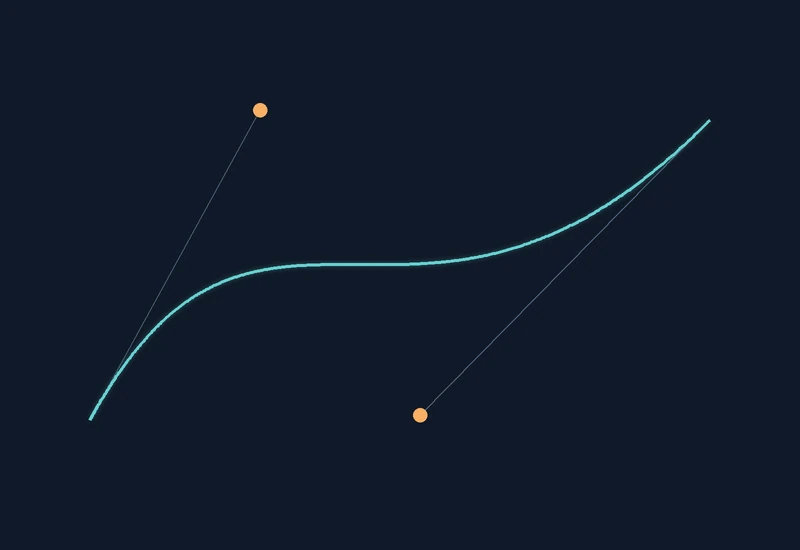
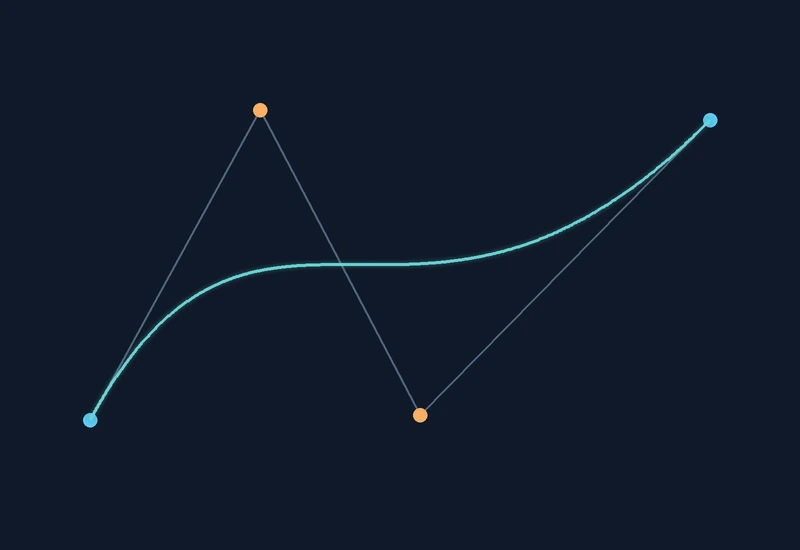
s

diff --git a/content/chapters/10-gorbek/index.md b/content/chapters/10-gorbek/index.md
@@ -6,9 +6,17 @@ Ebben a fejezetben a paraméteres leírás alapgondolatára és a felhasználás
 
 ## Paraméteres görbék {#parameteres-gorbek}
 
-A síkbeli paraméteres görbe egy pontját két függvény határozza meg: **`x(t)` és `y(t)`**. A `t` értékét egy megadott tartományon változtatjuk, minden értékhez kiszámítunk egy pontot, majd az egymást követő pontokat összekötjük. Ha elég sok pontot számítunk, a vonal folyamatos görbének látszik.
+A síkbeli paraméteres görbe egy pontját két koordinátafüggvény határozza meg: `x(t)` és `y(t)`. A `t` egy változó, amelynek értékét egy megadott intervallumon végigvezetjük. Például egy kör esetében az `x(t) = R cos(t)` és `y(t) = R sin(t)` képleteket használhatjuk, ahol `t ∈ [0, 2π]` és `R` a kör sugara. Minden paraméterértékhez kiszámítunk egy pontot, majd az egymást követő pontokat összekötjük. Ha elég sok pontot számítunk, a vonal folyamatos görbének látszik.
 
-**Általános rajzolóprogram.** A következő programban a `curveX()` és `curveY()` függvények, valamint a `tMin`, `tMax` értékek cserélhetők. A ciklus és a rajzolás szerkezete változatlan marad. Az első példa egy Lissajous-görbét rajzol.
+A fejezetben a képletek mellett mindenhol megadjuk a **paramétertartományt** is. A `sin` és a `cos` a Processingben `sin()` és `cos()` formában szerepel; a `π` megfelelője a `PI`, a `2π` megfelelője a `TWO_PI`. Egy internetről talált új görbét is ugyanígy lehet kipróbálni: a képleteket átírjuk Processing-utasításokra, megadjuk a tartományt és szükség esetén az alakparamétereket.
+
+**Általános rajzolóprogram.** A következő programban a `curveX()` és `curveY()` függvények, valamint a `tMin`, `tMax` értékek cserélhetők. A ciklus és a rajzolás szerkezete változatlan marad. Az első példa egy Lissajous-görbét rajzol. Ennek paraméteres leírása:
+
+- `x(t) = A sin(a t)`
+- `y(t) = B sin(b t + δ)`
+- `t ∈ [0, 2π]`
+
+Az `A` és `B` a vízszintes és függőleges kiterjedést, az `a` és `b` a két rezgés gyakoriságát, a `δ` (delta) pedig a fáziseltolást határozza meg. A példaprogramban `A = 240`, `B = 180`, `a = 3`, `b = 4`, `δ = π/2`.
 
 :::processing-example title="Paraméteres görbe – újrahasználható 2D-s programváz" image="media/01-lissajous.webp"
 ```processing
@@ -43,13 +51,19 @@ float curveY(float t) {
 ```
 :::
 
-A `map()` a ciklusváltozó `0` és `steps` közötti értékeit a megadott paramétertartományra képezi le. A `beginShape()` és az `endShape()` közötti `vertex(x, y)` hívások egymás után adják meg a görbe közelítő pontjait. A `steps` a mintavételezés sűrűségét szabályozza: kevés értéknél a vonal szögletesebb, több értéknél simább lesz. A két szinuszfüggvényben a `3`, `4` és a `PI / 2` az alakját befolyásolja; ezek megváltoztatásával más Lissajous-mintát kapunk.
+A `map()` a ciklusváltozó `0` és `steps` közötti értékeit a megadott paramétertartományra képezi le. A `beginShape()` és az `endShape()` közötti `vertex(x, y)` hívások egymás után adják meg a görbe közelítő pontjait. A `steps` a mintavételezés sűrűségét szabályozza, tehát nem a görbe alakparamétere: kevés értéknél a vonal szögletesebb, több értéknél simább lesz. A két szinuszfüggvényben a `3`, `4` és a `PI / 2` a gyakoriságokat és a fáziseltolást adja meg; ezeket módosítva más Lissajous-mintát kapunk.
 
 ### Görbék különböző függvényekből
 
-Néhány ismert görbén jól megfigyelhető, mennyire eltérő képet adhat ugyanaz a rajzolási módszer. Az alábbi kódok mind önálló programok, de mindegyik a fenti eljárást használja.
+Néhány ismert görbén jól megfigyelhető, mennyire eltérő képet adhat ugyanaz a rajzolási módszer. Az alábbi kódok mind önálló programok, de mindegyik a fenti eljárást használja. A koordinátákat mindenhol az adott képletből számítjuk, a tartományt pedig a `map()` utolsó két paraméterében adjuk meg.
 
-**Rózsagörbe.** A `petals` paraméter a mintázat sziromszerkezetét határozza meg. Először kiszámítjuk a középponttól mért távolságot (`r`), majd ebből a pont két koordinátáját.
+**Rózsagörbe.** A görbe polárkoordinátás leírása alapján először kiszámítjuk a középponttól mért távolságot, majd ebből a két koordinátát:
+
+- `r(t) = A cos(k t)`
+- `x(t) = r(t) cos(t)`, `y(t) = r(t) sin(t)`
+- `t ∈ [0, 2π]`
+
+A `k` határozza meg a szirmok elrendezését. Ha `k` páratlan egész szám, akkor `k` szirom keletkezik; páros egész `k` esetén `2k` szirom. A példában `A = 245`, `k = 7`.
 
 :::processing-example title="Rózsagörbe – változtatható alakparaméter" image="media/02-rozsagorbe.webp"
 ```processing
@@ -78,7 +92,13 @@ void setup() {
 ```
 :::
 
-**Spirograph-jellegű görbe (hipotrochoid).** Az alakot három paraméterrel adjuk meg: `R` a nagyobb, `r` a kisebb kör sugara, `d` pedig a rajzolópont távolsága a kisebb kör középpontjától. Itt a paramétertartomány is lényeges: nem minden görbe záródik egyetlen körbefordulás után.
+**Hipotrochoid.** Egy kisebb kör egy nagyobb kör **belső oldalán** gördül. Egy vele együtt mozgó pont pályáját rajzoljuk meg. Paraméteres egyenletei:
+
+- `x(t) = (R − r) cos(t) + d cos(((R − r)/r) t)`
+- `y(t) = (R − r) sin(t) − d sin(((R − r)/r) t)`
+- `t ∈ [0, 4π]` az itt választott `R = 180`, `r = 40` értékeknél.
+
+Az `R` a rögzített kör sugara, az `r` a gördülő kör sugara, a `d` pedig a rajzolópont távolsága a gördülő kör középpontjától. A példában `d = 105`, tehát a pont a kisebb körön kívül helyezkedik el. A tartományra figyelni kell: bizonyos sugárarányoknál a görbe egyetlen körbefordulás alatt nem záródik.
 
 :::processing-example title="Hipotrochoid – három alakparaméterrel" image="media/03-hipotrochoid.webp"
 ```processing
@@ -109,7 +129,86 @@ void setup() {
 ```
 :::
 
-**Archimédészi spirál.** A paraméter növelésével a sugár is folyamatosan nő. Ha a `turns` értékét módosítjuk, több vagy kevesebb fordulatot kapunk; a `growth` az egymást követő menetek távolságát befolyásolja.
+**Epiciklois.** Most a kisebb kör a nagyobb kör **külső oldalán** gördül, a rajzolópont pedig a kisebb kör kerületén helyezkedik el. A csúcsokban találkozó ívek számát a két sugár aránya befolyásolja.
+
+- `x(t) = (R + r) cos(t) − r cos(((R + r)/r) t)`
+- `y(t) = (R + r) sin(t) − r sin(((R + r)/r) t)`
+- `t ∈ [0, 2π]` az itt választott `R = 140`, `r = 35` értékeknél.
+
+:::processing-example title="Epiciklois – külső körön gördülő kör" image="media/03b-epiciklois.webp"
+```processing
+float R = 140;
+float r = 35;
+int steps = 1600;
+
+void setup() {
+  size(800, 600);
+  background(13, 20, 34);
+  translate(width / 2, height / 2);
+
+  noFill();
+  stroke(125, 210, 250);
+  strokeWeight(2);
+
+  beginShape();
+  for (int i = 0; i <= steps; i++) {
+    float t = map(i, 0, steps, 0, TWO_PI);
+    float k = (R + r) / r;
+    float x = (R + r) * cos(t) - r * cos(k * t);
+    float y = (R + r) * sin(t) - r * sin(k * t);
+    vertex(x, y);
+  }
+  endShape();
+}
+```
+:::
+
+**Epitrochoid.** A gördülés itt is a nagyobb kör külső oldalán történik, de a rajzolópont már nem feltétlenül a kisebb kör kerületén van. A pont távolságát a kisebb kör középpontjától a `d` paraméter adja meg.
+
+- `x(t) = (R + r) cos(t) − d cos(((R + r)/r) t)`
+- `y(t) = (R + r) sin(t) − d sin(((R + r)/r) t)`
+- `t ∈ [0, 2π]` az itt választott `R = 140`, `r = 35` értékeknél.
+
+Ha `d = r`, ugyanazt az epicikloist kapjuk, mint az előző példában. Ha `d` ettől eltér, az alakja is változik. A programban `d = 85`, ezért hurkolt mintát rajzolunk.
+
+:::processing-example title="Epitrochoid – változó rajzolópont" image="media/03c-epitrochoid.webp"
+```processing
+float R = 140;
+float r = 35;
+float d = 85;
+int steps = 1600;
+
+void setup() {
+  size(800, 600);
+  background(13, 20, 34);
+  translate(width / 2, height / 2);
+
+  noFill();
+  stroke(245, 158, 130);
+  strokeWeight(2);
+
+  beginShape();
+  for (int i = 0; i <= steps; i++) {
+    float t = map(i, 0, steps, 0, TWO_PI);
+    float k = (R + r) / r;
+    float x = (R + r) * cos(t) - d * cos(k * t);
+    float y = (R + r) * sin(t) - d * sin(k * t);
+    vertex(x, y);
+  }
+  endShape();
+}
+```
+:::
+
+A hipotrochoid, az epiciklois és az epitrochoid esetében érdemes a `R`, `r` és `d` értékeket külön-külön változtatni. A programváz mindig ugyanaz marad, de a rajz jelentősen átalakulhat. **Nem minden paraméterválasztásnál zárt a görbe a megadott tartományon**: ha csak a görbe egy részét látjuk, először a `tMax` értékét érdemes növelni.
+
+**Archimédészi spirál.** A sugár a paraméterrel arányosan nő:
+
+- `r(t) = a t`
+- `x(t) = a t cos(t)`, `y(t) = a t sin(t)`
+- `t ∈ [0, 2π · turns]`
+
+Az `a` értékének a programban a `growth` változó felel meg: azt mutatja, milyen gyorsan távolodunk a középponttól. A `turns` a körbefordulások száma. Ha valamelyik paramétert módosítjuk, más méretű vagy sűrűségű spirált kapunk.
 
 :::processing-example title="Archimédészi spirál" image="media/04-spiral.webp"
 ```processing
@@ -137,13 +236,13 @@ void setup() {
 ```
 :::
 
-A négy példánál érdemes először csak egy-egy paramétert módosítani, és megnézni, hogyan változik a görbe. A kódban a számításokat nem kell levezetnünk: azt kell érteni, **melyik paramétert változtatjuk, és az hogyan hat a rajzra**.
+Az itt bemutatott görbéknél érdemes először csak egy-egy paramétert módosítani, és megnézni, hogyan változik a görbe. A kódban a számításokat nem kell levezetnünk: azt kell érteni, **melyik paramétert változtatjuk, és az hogyan hat a rajzra**.
 
 ## Görbék alkalmazása {#alkalmazasok}
 
 A görbe pontjaihoz nemcsak vonalszakaszokat rajzolhatunk. Ugyanezekre a koordinátákra köröket, négyzeteket vagy képeket is helyezhetünk. A `t` paraméter akár a rajzolt alakzat méretét, forgatását és színét is szabályozhatja.
 
-**Alakzatok elhelyezése.** Az első program egy Lissajous-görbe mentén színes köröket rajzol. A méret minden mintavételi pontnál más: a `sin(t)` függvény határozza meg, milyen nagy legyen az adott kör.
+**Alakzatok elhelyezése.** Az első program egy Lissajous-görbe mentén színes köröket rajzol. A pálya képletei a korábbi példával azonosak (`x(t) = 240 sin(3t)` és `y(t) = 180 sin(4t + π/2)`, ahol `t ∈ [0, 2π]`). A körök méretét a `diameter = 5 + 9 · (1 + sin(7t))/2` kifejezés határozza meg, ezért a pontok különböző nagyságúak lesznek. A színük a `fill()` paramétereiben változik; a negyedik szám az áttetszőséget adja meg.
 
 :::processing-example title="Változó méretű körök egy görbe mentén" image="media/05-korok-gorben.webp"
 ```processing
@@ -168,7 +267,7 @@ void setup() {
 ```
 :::
 
-**Forgatott négyzetek.** Ugyanarra a pályára négyzeteket helyezünk. A korábban tanult `pushMatrix()` és `popMatrix()` biztosítja, hogy minden négyzet saját helyen és szögben rajzolódjon ki. A `rotate()` szöge és a `scale()` méretezése is a `t` paraméterből származik.
+**Forgatott négyzetek.** Most egy ellipszisre helyezzük a négyzetek középpontját: `x(t) = 235 cos(t)`, `y(t) = 170 sin(t)`, ahol `t ∈ [0, 2π]`. A korábban tanult `pushMatrix()` és `popMatrix()` biztosítja, hogy minden négyzet saját helyen és szögben rajzolódjon ki. A `rotate(2 * t)` a négyzetet a körbejárás során kétszer forgatja meg, a `scale(s)` pedig a méretét változtatja. Itt `s(t) = 0.7 + 0.35 sin(5t)`, ezért a méret periodikusan nő és csökken. A transzformációkat a rajzolás után visszaállítjuk, így nem halmozódnak fel a következő négyzetnél.
 
 :::processing-example title="A görbe mentén forgó és méretezett négyzetek" image="media/06-negyzetek-gorben.webp"
 ```processing
@@ -201,7 +300,9 @@ void setup() {
 
 A négyzetek nem egyetlen kész alakzat másolatai a képen: minden cikluslépésben újból meghatározzuk a helyüket, méretüket és irányukat. Ugyanez az eljárás alkalmazható képek elhelyezésére is az `image()` rajzoló utasítással.
 
-**Kontrollpontokkal megadott görbék.** Nem minden esetben szeretnénk a koordinátafüggvényeket kézzel megadni. A Processing `bezier()` metódusa négy pont segítségével határoz meg egy Bézier-görbét: a két végpontot és a két kontrollpontot. A következő példában az egyik kontrollpont az egérrel mozgatható, ezért azonnal látható, hogyan módosul a görbe alakja.
+**Kontrollpontokkal megadott görbék.** Nem minden esetben szeretnénk a koordinátafüggvényeket kézzel megadni. A Bézier-görbéknél a görbe alakját **kontrollpontokkal** befolyásoljuk. A harmadfokú Bézier-görbe négy kontrollpontja közül az első és az utolsó a görbe végpontja; a két közbenső pont a görbe indulásának és érkezésének irányát, valamint a görbe alakját befolyásolja. A négy pontot sorrendben összekötő törött vonal a **kontrollpoligon**. A görbe általában nem halad át a két belső kontrollponton.
+
+A Processing `bezier()` metódusa ezeket a pontokat fogadja. A következő példában a teljes kontrollpoligont is megrajzoljuk, és az egyik belső kontrollpont az egérrel mozgatható. Így közvetlenül összehasonlítható a kontrollpoligon és a keletkező görbe.
 
 :::processing-example title="Bézier-görbe mozgatható kontrollponttal" image="media/07-bezier.webp"
 ```processing
@@ -216,6 +317,7 @@ void draw() {
   stroke(86, 110, 135);
   strokeWeight(1);
   line(90, 420, 260, 110);
+  line(260, 110, mouseX, mouseY);
   line(mouseX, mouseY, 710, 120);
 
   noFill();
@@ -227,6 +329,10 @@ void draw() {
          710, 120);
 
   noStroke();
+  fill(90, 205, 245);
+  circle(90, 420, 14);
+  circle(710, 120, 14);
+
   fill(250, 175, 100);
   circle(260, 110, 14);
   circle(mouseX, mouseY, 14);
@@ -234,13 +340,19 @@ void draw() {
 ```
 :::
 
-Az első és az utolsó pont a görbe végpontja, a közbenső pontok pedig befolyásolják az alakját. A `curve()` és a `curveVertex()` egy másik, Catmull–Rom-típusú görbéhez használható. Ezeket most nem vezetjük le; a kontrollpontok szerepének megértése elegendő.
+A kék pontok a görbe végpontjai, a narancssárgák a két belső kontrollpontot jelölik. A szürke törött vonal mindhárom szakasza együtt alkotja a kontrollpoligont. A `curve()` és a `curveVertex()` egy másik, Catmull–Rom-típusú interpolációs görbéhez használható. Ezeket most nem vezetjük le; a kontrollpontok szerepének megértése elegendő.
 
 ## Térbeli görbék {#terbeli-gorbek}
 
-Térben ugyanaz a módszer működik, mint síkban, csak a pontnak **harmadik koordinátája is van**. A görbe egy pontját így `x(t)`, `y(t)` és `z(t)` határozza meg. A `P3D` megjelenítési módot használjuk, és a `vertex()` már három értéket kap.
+Térben ugyanaz a módszer működik, mint síkban, csak a pontnak **harmadik koordinátája is van**. A görbe egy pontját így `x(t)`, `y(t)` és `z(t)` határozza meg. A `P3D` megjelenítési módot használjuk, és a `vertex()` már három értéket kap. A `rotateX()` és `rotateY()` nem változtatják meg a görbe képletét: a teljes koordinátarendszert forgatják, hogy a térbeli forma több oldalról is látszódjon.
 
-**Általános térbeli programváz.** A következő program egy csavarvonalat rajzol. A térbeli görbe alakja a három `curveX()`, `curveY()` és `curveZ()` függvény, valamint a paramétertartomány cseréjével változtatható.
+**Általános térbeli programváz.** A következő program egy csavarvonalat rajzol. A térbeli görbe alakja a három `curveX()`, `curveY()` és `curveZ()` függvény, valamint a paramétertartomány cseréjével változtatható. Ennek a csavarvonalnak az egyenletei:
+
+- `x(t) = R cos(t)`, `y(t) = R sin(t)`
+- `z(t) = z0 + h t`
+- `t ∈ [0, 6π]`
+
+A programban `R = 135`, `z0 = −210`, `h = 22`. Az `R` a csavarvonal sugara, a `h` pedig azt szabályozza, milyen gyorsan változik a magasság a paraméter növelésével.
 
 :::processing-example title="Csavarvonal – újrahasználható 3D-s programváz" image="media/08-csavarvonal.webp"
 ```processing
@@ -278,7 +390,14 @@ float curveZ(float t) { return -210 + 22 * t; }
 
 A `curveX()` és `curveY()` körmozgást írnak le, miközben a `curveZ()` folyamatosan változik; ettől alakul ki a csavarvonal. A teljes jelenetet lassan forgatjuk, hogy a térbeli forma könnyebben áttekinthető legyen.
 
-**Tóruszcsomó.** Egy térben önmagába visszatérő görbét is létrehozhatunk. A `p` és `q` alakparaméterek azt befolyásolják, hogyan járja körbe a görbe a tórusz alakú tartományt. A program nem egy tóruszfelületet rajzol, hanem egyetlen térbeli vonalat.
+**Tóruszcsomó.** Egy térben önmagába visszatérő görbét is létrehozhatunk. A paraméteres egyenletek például így adhatók meg:
+
+- `x(t) = (R + r cos(qt)) cos(pt)`
+- `y(t) = (R + r cos(qt)) sin(pt)`
+- `z(t) = r sin(qt)`
+- `t ∈ [0, 2π]`
+
+A `R` a nagyobb körsugár, az `r` a kisebb, a `p` és `q` pedig azt határozza meg, hány fordulatot végez a görbe a tórusz két alapvető iránya körül. A programban `R = 180`, `r = 68`, `p = 2`, `q = 3`. A program nem egy tóruszfelületet rajzol, hanem egyetlen térbeli vonalat.
 
 :::processing-example title="Tóruszcsomó – térbeli görbe alakparaméterekkel" image="media/09-toruszcsomo.webp"
 ```processing
@@ -313,7 +432,7 @@ void draw() {
 ```
 :::
 
-A térbeli görbe mentén gömböket is elhelyezhetünk. A következő programban az egyes gömbök helyét ugyanaz a tóruszcsomó adja meg, amelyet az előző kódban vonalként rajzoltunk meg.
+A térbeli görbe mentén gömböket is elhelyezhetünk. A következő programban az egyes gömbök helyét ugyanaz a tóruszcsomó adja meg, amelyet az előző kódban vonalként rajzoltunk meg. A `sphereDetail(8)` a gömb felületét alkotó lapok számát csökkenti, ezért egyszerűbb, soklapú alakzatot látunk. A gömbök átmérője a `sin(5t)` miatt változik; a `fill()` összetevői pedig a ciklusváltozóval együtt módosulnak.
 
 :::processing-example title="Gömbök elhelyezése egy térbeli görbe mentén" image="media/10-gombok-terben.webp"
 ```processing
@@ -350,7 +469,7 @@ void draw() {
 
 ### Csavarodó keresztmetszetek egy görbe mentén
 
-A görbe mentén elhelyezett alakzatot a helyváltoztatás mellett **folyamatosan forgathatjuk vagy méretezhetjük** is. Ennek egyszerű szemléltetése egy körpálya mentén elhelyezett négyzetek sora. A négyzetek síkját először a körpálya érintőjére merőlegesen állítjuk, majd a teljes körbejárás alatt mindegyiket egyre nagyobb szögben elforgatjuk a helyi érintő körül.
+A görbe mentén elhelyezett alakzatot a helyváltoztatás mellett **folyamatosan forgathatjuk vagy méretezhetjük** is. A pálya itt egy kör: `x(t) = 185 cos(t)`, `y(t) = 185 sin(t)`, `z(t) = 0`, ahol `t ∈ [0, 2π]`. Ennek egyszerű szemléltetése egy körpálya mentén elhelyezett négyzetek sora. A négyzetek síkját először a körpálya érintőjére merőlegesen állítjuk, majd a teljes körbejárás alatt mindegyiket egyre nagyobb szögben elforgatjuk a helyi érintő körül.
 
 :::processing-example title="Kör mentén csavarodó négyzet-keresztmetszetek" image="media/11-csavart-keresztmetszet.webp"
 ```processing
@@ -391,9 +510,15 @@ A `rotateZ(t)` és az eltolás a négyzetet a körpályára viszi. A `rotateX(HA
 
 A fejezet végén két összetettebb alkotást készítünk. Az első síkbeli vonalrendszer, a második térbeli, csavarodó geometrikus kompozíció. Mindkettőt több, önállóan futtatható változatban építjük fel.
 
-### 1. Paraméteres vonalkompozíció
+### 1. Csillapodó paraméteres görbékből készített kompozíció
 
-A kiindulás egy lassan csillapodó Lissajous-jellegű görbe. A `damping` tényezővel a koordináták nagyságát csökkentjük, így a görbe fokozatosan közelít a középponthoz. A további változatokban egymáshoz közeli paraméterű görbéket rajzolunk egymásra.
+A kiindulás egy lassan csillapodó Lissajous-jellegű görbe. A koordinátáit például ezek a függvények adják:
+
+- `x(t) = A e^(−λt) sin(a t + δ)`
+- `y(t) = B e^(−λt) sin(b t)`
+- `t ∈ [0, 12π]`
+
+A `e^(−λt)` **csillapítási tényező**, amely a paraméter növekedésével egyre kisebb lesz. A Processing `exp(u)` függvénye az `e^u` értéket számítja ki, ahol `e ≈ 2,718`. Ezért a kódban az `exp(-0.045 * t)` a kezdetben 1 körüli szorzót fokozatosan 0 felé csökkenti. A `damping` változó neve angolul csillapítást jelent, és ezt a kiszámított szorzót tárolja; nem a Processing beépített változója. A `0.045` helyére nagyobb értéket írva a görbe gyorsabban húzódik a középpont felé. A további változatokban több, kissé eltérő paraméterű görbét rajzolunk egymásra.
 
 **1. változat – egyetlen csillapodó görbe.**
 
@@ -420,9 +545,9 @@ void setup() {
 ```
 :::
 
-Az `exp(-0.045 * t)` értéke a `t` növekedésével csökken. Ezzel a görbe egyre kisebb kitéréseket végez; a `0.045` megváltoztatásával a csillapodás gyorsaságát szabályozhatjuk.
+Az `exp(-0.045 * t)` mindkét koordinátát ugyanazzal a csillapítási tényezővel szorozza meg, ezért a görbe mindkét irányban fokozatosan kisebb kitéréseket végez. Ha a `0.045` értékét csökkentjük, a görbe lassabban közelít a középponthoz.
 
-**2. változat – több, kissé eltérő görbe.** A külső ciklus többször rajzolja meg a mintát, de a `phase` értéke minden alkalommal más lesz.
+**2. változat – több, kissé eltérő görbe.** A külső ciklus többször rajzolja meg a mintát, de a `phase` (fáziseltolás) értéke minden alkalommal más lesz. Ez azt jelenti, hogy a szinuszfüggvényt kissé eltoljuk a paraméter mentén: `sin(3t + phase)`. A különböző fázisok miatt a vonalak nem pontosan ugyanarra a pályára esnek.
 
 :::processing-example title="Paraméteres kompozíció – 2. változat" image="media/13-vonalkompozicio-2.webp"
 ```processing
@@ -451,7 +576,7 @@ void setup() {
 ```
 :::
 
-**3. változat – színváltoztatás.** A színkomponensek a `k` ciklusváltozó szerint módosulnak, a vonalak áttetszősége pedig lehetővé teszi, hogy az egymásra kerülő szakaszok együtt gazdagabb tónusokat alkossanak.
+**3. változat – színváltoztatás.** A színkomponensek a `k` ciklusváltozó szerint módosulnak. A `stroke(vörös, zöld, kék, alfa)` negyedik paramétere az áttetszőséget adja meg: kisebb értéknél a vonal halványabb, így az egymásra kerülő szakaszok különböző tónusokat hozhatnak létre. A példában nem változik a görbék csillapítása; csak a fázisuk és a színük tér el.
 
 :::processing-example title="Paraméteres kompozíció – 3. változat" image="media/14-vonalkompozicio-3.webp"
 ```processing
@@ -480,7 +605,7 @@ void setup() {
 ```
 :::
 
-**4. változat – több motívumból álló kompozíció.** A rajzolást saját metódusba szervezzük. A `drawMotif()` megkapja a középpontot, a méretet, a két frekvenciát és az alapszínt. Ugyanaz a megoldás három eltérő helyen készít mintázatot.
+**4. változat – több motívumból álló kompozíció.** A rajzolást saját metódusba szervezzük. A `drawMotif()` megkapja a középpont (`cx`, `cy`) koordinátáit, a két irány kiterjedését (`ax`, `ay`), a frekvenciákat (`fx`, `fy`) és az alapszínt (`c`). Ugyanaz a megoldás három eltérő helyen készít mintázatot. A `pushMatrix()` és `popMatrix()` gondoskodik arról, hogy az egyik motívumhoz végzett eltolás ne módosítsa a következő helyét.
 
 :::processing-example title="Paraméteres kompozíció – 4. változat" image="media/15-vonalkompozicio-4.webp"
 ```processing
@@ -523,9 +648,9 @@ void drawMotif(float cx, float cy,
 ```
 :::
 
-### 2. Térbeli görbeszobor
+### 2. Térbeli kompozíció csavarodó keresztmetszetekből
 
-A második kompozíciót egy körpályából építjük fel. Először csak a pályát jelöljük, majd négyzetes keresztmetszeteket helyezünk el rajta. Ezután a keresztmetszeteket elforgatjuk, végül több, eltérő paraméterekkel megadott alakzatot helyezünk ugyanabba a térbeli jelenetbe.
+A második kompozíciót egy térbeli körpályából építjük fel. A pálya képletei `x(t) = 185 cos(t)`, `y(t) = 185 sin(t)`, `z(t) = 0`, ahol `t ∈ [0, 2π]`. Először csak a pályát rajzoljuk meg, majd négyzetes keresztmetszeteket helyezünk el rajta. Ezután a keresztmetszeteket a pálya érintőjének irányában elforgatjuk, végül több, eltérő paraméterű rendszert helyezünk el ugyanabban a jelenetben.
 
 **1. változat – a körpálya megjelenítése.** A pálya vonalát a `vertex(x, y, z)` segítségével állítjuk elő.
 
@@ -585,7 +710,7 @@ void draw() {
 ```
 :::
 
-**3. változat – csavarodó keresztmetszetek.** A helyi elforgatás szögét a `t` paraméterből számítjuk. A körbejárás alatt így a négyzet egyszer körbefordul a saját keresztmetszeti síkjában.
+**3. változat – csavarodó keresztmetszetek.** A helyi elforgatás szögét a `t` paraméterből számítjuk: `szög(t) = t`. A `rotateY(t)` a négyzetet az aktuális helyi tengely körül forgatja. Így egy teljes körbejárás alatt a négyzet egyszer körbefordul a keresztmetszeti síkjában.
 
 :::processing-example title="Térbeli kompozíció – 3. változat" image="media/18-terbeli-kompozicio-3.webp"
 ```processing
@@ -617,7 +742,7 @@ void draw() {
 ```
 :::
 
-**4. változat – több egymásba helyezett szerkezet.** Az ismétlődő rajzolást `drawTwistedRing()` metódusba helyezzük. A paraméterekkel megadható a kör sugara, a négyzet mérete, a körbejárás közbeni csavarodások száma és a szín. Három különböző alakzatot kombinálunk.
+**4. változat – több egymásba helyezett szerkezet.** Az ismétlődő rajzolást `drawTwistedRing()` metódusba helyezzük. A `radius` a kör sugara, a `sectionSize` a négyzet alapmérete, a `twistCount` a körbejárás alatti teljes csavarodások száma, a `c` pedig a szín. A méretet a `size(t) = sectionSize · (0.85 + 0.15 sin(4t))` összefüggés szerint is változtatjuk. Három eltérő rendszer együtteséből állítjuk elő a végső kompozíciót.
 
 :::processing-example title="Térbeli kompozíció – 4. változat" image="media/19-terbeli-kompozicio-4.webp"
 ```processing
